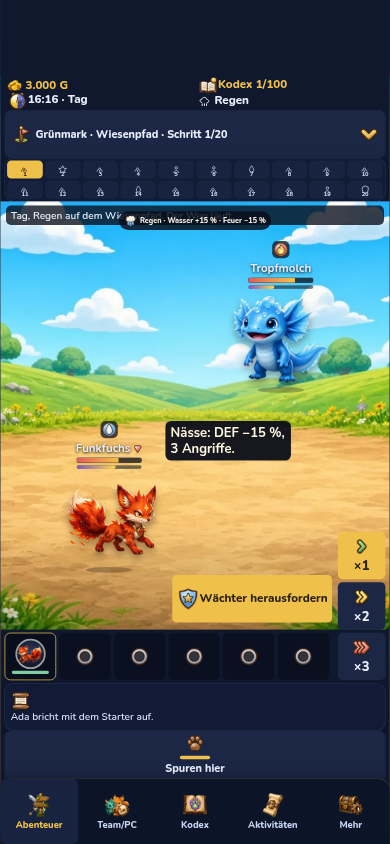
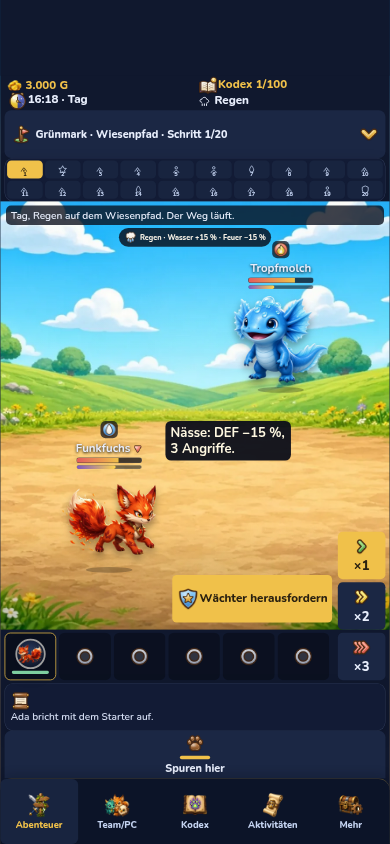
Wetter-Chip steht unter der Ortszeile.
Die Zeile „Tag, Regen auf dem Wiesenpfad“ und der Chip liegen untereinander, auch bei 360 px Breite.

Changed region(s): [[0.3077, 0.2464, 0.7077, 0.3081]]

diff --git a/src/adventure/view.ts b/src/adventure/view.ts
@@ -279,7 +279,6 @@ function battle(save: SaveV2, now: number): string {
         ${mon ? `<img class="sprite ${mon.shiny ? 'is-shiny' : ''}" id="ally-sprite" src="${monsterArt(mon.species, true)}" alt=""/>` : ''}
         <span class="ground-shadow"></span>
       </div>
-      <div class="wx-stack"><div class="wx-chip" id="wx-chip">${weatherChip(save, now)}</div></div>
       <div id="floats"></div>
       <div class="move-banner" id="move-banner" hidden></div>
       <div class="name-banner" id="name-banner" hidden></div>
@@ -290,8 +289,11 @@ function battle(save: SaveV2, now: number): string {
     </div>
     <div class="flash" id="flash"></div>
     <img class="seal" id="seal" alt="" src="${art(SEAL_ADD)}" data-fb="${art(SEAL_FALLBACK)}" style="left:${FOE_X}%;top:${FOE_Y}%"/>
-    <p id="battle-text" class="battle-status">${tr(save, 'battle.place', { part: clock.part, weather: weatherLabel(L(save), weatherForecast(now)[0].weather), place: chapter.name, state: tr(save, save.hold ? 'battle.waiting' : 'battle.walking') })}</p>
-    ${bossAhead(save) ? `<p class="wx-preview">${esc(weatherPreview(save, now))}</p>` : ''}
+    <div class="battle-top">
+      <p id="battle-text" class="battle-status">${tr(save, 'battle.place', { part: clock.part, weather: weatherLabel(L(save), weatherForecast(now)[0].weather), place: chapter.name, state: tr(save, save.hold ? 'battle.waiting' : 'battle.walking') })}</p>
+      <div class="wx-stack"><div class="wx-chip" id="wx-chip">${weatherChip(save, now)}</div></div>
+      ${bossAhead(save) ? `<p class="wx-preview">${esc(weatherPreview(save, now))}</p>` : ''}
+    </div>
     ${sealed ? '' : `<button type="button" class="primary challenge-fab" data-act="challenge">${ui('challenge')}${tr(save, chapter.council || chapter.foyer ? 'battle.resume' : 'battle.challenge')}</button>`}
   </div>`
 }

diff --git a/src/adventure/adventure.css b/src/adventure/adventure.css
@@ -335,14 +335,19 @@ textarea { width: 100%; box-sizing: border-box; background: #121a30; color: inhe
 .parallax.mid { background: radial-gradient(60% 30% at 50% 40%, rgba(255,255,255,0.14), transparent 70%); }
 .parallax.near { background: linear-gradient(0deg, rgba(0,0,0,0.28), transparent 28%); }
 #battle-fx { position: absolute; inset: 0; pointer-events: none; z-index: 4; }
+.battle-top {
+  position: absolute; z-index: 7; top: 12px; left: 16px; right: 16px;
+  display: flex; flex-direction: column; align-items: center; gap: 8px;
+  pointer-events: none;
+}
 .wx-stack {
-  position: absolute; z-index: 7; top: 28px; left: 50%; transform: translateX(-50%);
-  display: flex; flex-direction: column; align-items: center; gap: 12px;
-  width: min(94%, 960px); pointer-events: none;
+  position: static; transform: none; width: 100%;
+  display: flex; flex-direction: column; align-items: center; gap: 8px;
 }
 .wx-chip {
   position: static; transform: none;
-  display: flex; align-items: center; gap: 8px; max-width: 100%;
+  display: flex; align-items: center; justify-content: center; gap: 8px;
+  max-width: 100%; box-sizing: border-box;
   padding: 8px 14px; border-radius: 999px; background: rgba(8, 12, 24, 0.82);
   color: #f4efe4; font-weight: 800; font-size: 20px; white-space: nowrap;
 }
@@ -457,12 +462,10 @@ textarea { width: 100%; box-sizing: border-box; background: #121a30; color: inhe
 }
 
 .battle-status {
-  position: absolute;
-  left: 16px;
-  right: 16px;
-  top: 12px;
+  position: static;
+  width: 100%;
+  box-sizing: border-box;
   margin: 0;
-  z-index: 4;
   background: rgba(8, 12, 24, 0.78);
   border-radius: 14px;
   padding: 8px 14px;
